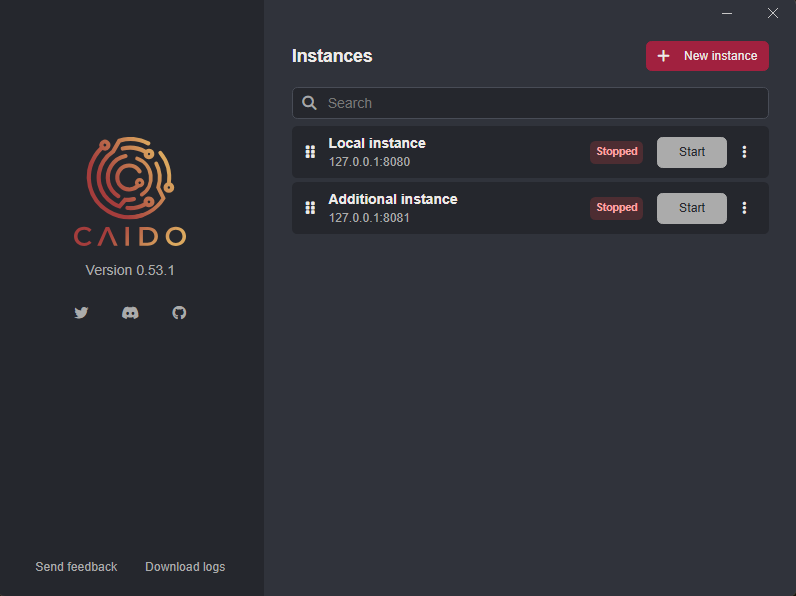
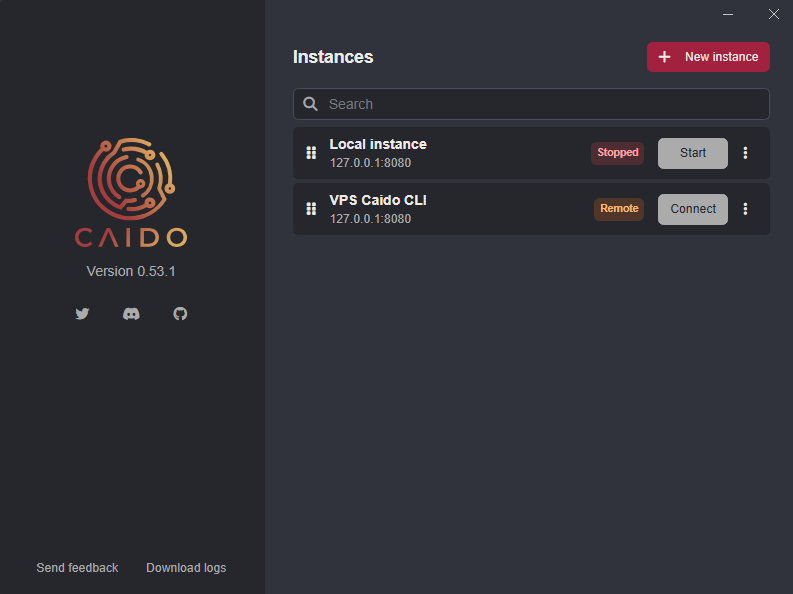
Rework of CLI vs. Desktop, Instances, and Authentiation.

diff --git a/src/concepts/instances.md b/src/concepts/instances.md
@@ -4,38 +4,41 @@ description: "Understand the core concepts behind Caido instances - the client/s
 
 # Instances
 
-An "instance" is a reference to the directory that stores the data generated by Caido's installation and usage. The default [data storage location](/reference/data_storage.md) on the file system of your device is dependent on the operating system.
+An "instance" is a reference to the directory that stores the data generated by Caido's installation and usage.
 
-This abstraction allows you to manage multiple, separate installations of Caido on one device.
+This abstraction allows you to manage multiple, separate installations of Caido on a single device.
 
-<img alt="Client/server architecture." src="/_images/client_server.png" center no-shadow/>
+## Local Instances
 
-As Caido is built around a client/server architecture, each instance is granted a set of OAuth credentials by our cloud service for [authentication](/concepts/authentication.md) between the client (_desktop or web application GUI_) to the server (_Caido CLI_).
+Additional local instances can be created using either the Caido CLI or desktop application by [changing the data storage location](/guides/data_location.).
 
-## Desktop Application
+## Remote Instances
 
-The default installation includes a `Local instance` that runs the Caido CLI server locally and stores data in the directory specific to your operating system.
-
-By clicking on the `+ New instance` button, you can create additional local instances that utilize a different listening address/port and data directory.
-
-<img alt="Creating a new local desktop application instance." src="/_images/new_local_instance.png" center/>
-
----
-
-<img alt="Configuring a different instance data path." src="/_images/new_local_instance_data_path.png" center/>
-
-You can also add remote instances to connect to external installations of the Caido CLI.
+Additional instances can also be created for remote installations of the Caido CLI via the launch window of the desktop application.
 
 <img alt="Specifying a new remote instance." src="/_images/new_remote_instance.png" center/>
 
-## Dashboard
+## Authentication
 
-Instances can be managed from your account dashboard.
+As Caido is built around a client/server architecture, each instance requires access control to authenticate the client (_desktop or web application GUI_) to the server (_Caido CLI_), to ensure it is only accessible to you.
 
-To manage your instances, you can head over to the [Dashboard](https://dashboard.caido.io/instances).
+<img alt="Client/server architecture." src="/_images/client_server.png" center no-shadow/>
+
+Authentication in Caido is based on [OAuth 2.0](https://www.rfc-editor.org/rfc/rfc6749). Every instance that is created [registers](https://www.rfc-editor.org/rfc/rfc7591.html) to our cloud service and obtains a client ID and secret. On initial login to the instance using your account credentials, you claim the instance's client ID.
+
+### OAuth Grants Used by Caido
+
+- <a href="https://www.rfc-editor.org/rfc/rfc6749#section-1.3.4" target="_blank">Client Credentials</a>: This grant is used to obtain an access token that authenticates the instance with the cloud.
+- <a href="https://www.rfc-editor.org/rfc/rfc8628.html" target="_blank">Device Authorization</a>: This grant is used to obtain access and refresh tokens to authenticate users. Contrary to most other grants, this grant eliminates the browser redirect.
+- [Refresh Token](https://www.rfc-editor.org/rfc/rfc6749#section-1.5): This grant is used to refresh user access tokens without requiring re-authentication.
 
 ::: warning NOTE
-If you delete an instance and try to login again, you will see the error ["Login URL generation failed"](http://localhost:3000/common_errors.html#login-url-generation-failed). You will need to reset the credentials.
+At this moment, we do not make any guarantees on the lifetime of the tokens.
 :::
 
-<img alt="Dashboard for instances." src="/_images/instances_dashboard.png" center/>
+<img alt="Authenticate user flow." src="/_images/authentication_user.png" no-shadow/>
+
+### Secrets Storage
+
+- The **client secret** and **instance access token** are both encrypted and stored in the `secrets.db` database in the instance data directory on disk.
+- **User access and refresh tokens** are stored in the client's `local storage`. These tokens are never stored on the instance, but can be present in memory.

diff --git a/src/concepts/authentication.md b/src/concepts/authentication.md
@@ -4,25 +4,29 @@ description: "Understand the core concepts behind Caido's OAuth 2.0 authenticati
 
 # Authentication
 
-The authentication in Caido is based on the <a href="https://www.rfc-editor.org/rfc/rfc6749" target="_blank">OAuth 2.0 Authorization Framework</a>. It replaces the need for licenses and will allow us to provide hosted and sharing services down the line.
-Each instance registers itself with our cloud API using the <a href="https://www.rfc-editor.org/rfc/rfc7591.html" target="_blank">Dynamic Client Registration Protocol</a> and obtains a client ID and secret. Upon the first login, the user will "claim" the client ID for its instance.
+As Caido is built around a client/server architecture, each instance requires access control to authenticate the client (_desktop or web application GUI_) to the server (_Caido CLI_), to ensure it is only accessible to you.
 
-::: warning
-Even if the API is authenticated, the actual proxy is currently not protected. That is why we **strongly** advise not to put your Caido instances on the open internet.
+::: danger
+Although the API is authenticated, the proxy traffic is currently unprotected. We **strongly** advise not to expose your Caido instances to the open internet.
 :::
 
-## Grants
+<img alt="Client/server architecture." src="/_images/client_server.png" center no-shadow/>
 
-We use a few OAuth2 grants depending on the API.
+Authentication in Caido is based on [OAuth 2.0](https://www.rfc-editor.org/rfc/rfc6749). Every instance that is created [registers](https://www.rfc-editor.org/rfc/rfc7591.html) to our cloud service and obtains a client ID and secret. On initial login to the instance using your account credentials, you claim the instance's client ID.
 
-- <a href="https://www.rfc-editor.org/rfc/rfc6749#section-1.3.4" target="_blank">Client Credentials</a>: We use this grant to get an access token that authenticates the instance itself with the cloud.
-- <a href="https://www.rfc-editor.org/rfc/rfc8628.html" target="_blank">Device Authorization</a>: We use this grant to get an access and refresh tokens that authenticate a user. This grant is nice because it doesn't require a redirect from the browser contrary to most other grants.
-- <a href="https://www.rfc-editor.org/rfc/rfc6749#section-1.5" target="_blank">Refresh Token</a>: We use this grant to refresh the access token of the user without having to ask the user to re-login. At this moment, we do not make any guarantees on the lifetime of the tokens.
+## OAuth Grants Used by Caido
+
+- <a href="https://www.rfc-editor.org/rfc/rfc6749#section-1.3.4" target="_blank">Client Credentials</a>: This grant is used to obtain an access token that authenticates the instance with the cloud.
+- <a href="https://www.rfc-editor.org/rfc/rfc8628.html" target="_blank">Device Authorization</a>: This grant is used to obtain access and refresh tokens to authenticate users. Contrary to most other grants, this grant eliminates the browser redirect.
+- [Refresh Token](https://www.rfc-editor.org/rfc/rfc6749#section-1.5): This grant is used to refresh user access tokens without requiring re-authentication.
+
+::: warning NOTE
+At this moment, we do not make any guarantees on the lifetime of the tokens.
+:::
 
 <img alt="Authenticate user flow." src="/_images/authentication_user.png" no-shadow/>
 
 ## Secrets Storage
 
-- **Client Secret**: Stored encrypted in the `secrets.db` database on the instance disk.
-- **Instance Access Token**: Stored encrypted in the `secrets.db` database on the instance disk.
-- **User Access & Refresh Tokens**: Stored in the browser `local storage` of the **user**. Never stored on the instance, but can be present in memory.
+- The **client secret** and **instance access token** are both encrypted and stored in the `secrets.db` database in the instance data directory on disk.
+- **User access and refresh tokens** are stored in the client's `local storage`. These tokens are never stored on the instance, but can be present in memory.

diff --git a/src/concepts/cli_vs_desktop.md b/src/concepts/cli_vs_desktop.md
@@ -4,15 +4,16 @@ description: "Understand the core concepts behind the comparison between Caido C
 
 # Caido CLI vs Desktop
 
-Since Caido is built around a client/server architecture, the graphical user-interface (_GUI_) is decoupled from proxying and processing.
+Caido is built around a client/server architecture and the two are decoupled by a [traffic splitting](/concepts/proxying/traffic_splitting.md) algorithm:
 
-The proxying and processing is handled by the Caido CLI and the GUI is available either as a desktop or web application.
+- The **client** is the graphical user-interface (_GUI_).
+- The **server** is the Caido CLI that handles proxying and processing.
 
 <img width="600" alt="CLI vs Desktop" src="/_images/cli_vs_desktop.png" center no-shadow/>
 
 ## Caido CLI
 
-The Caido CLI acts as the server and can be deployed on a variety of different platforms (_[virtual private servers](/guides/vps.md), [containers](/guides/docker.), etc._).
+The standalone Caido CLI installation is versatile as it can be ran on a variety of different platforms (_[virtual private servers](/guides/vps.md), [containers](/guides/docker.), etc._).
 
 Once the Caido CLI is launched, the GUI is available as a web application in the browser.
 
@@ -24,15 +25,18 @@ Certain [options](/reference/cli.md) for advanced configuration and management a
 
 ## Desktop Application
 
-Caido's desktop application runs the Caido CLI in the background and provides the GUI as a local installation.
+The desktop application also runs the Caido CLI (_as a background process_) and provides the GUI as a local installation via a webview window.
 
 ::: tip
-In addition to the installed webview, you can also access the GUI from the browser once the desktop application is launched.
+In addition to the installed webview, you can still access the GUI from the browser once the desktop application is launched.
 :::
 
-The desktop application has some advantages over the CLI:
+<img width="800" alt="Desktop" src="/_images/launch_window.png" center/>
+
+::: info
+Although either installation provides the same functionality, the desktop application has some slight advantages over the standalone Caido CLI:
 
 - It provides centralized management for multiple [instances](/concepts/instances.md).
 - It includes [browser pre-configurations](/guides/preconfigured_browser.md).
-
-<img width="800" alt="Desktop" src="/_images/launch_window.png" center/>
+- It can be used in environments without internet access.
+:::
